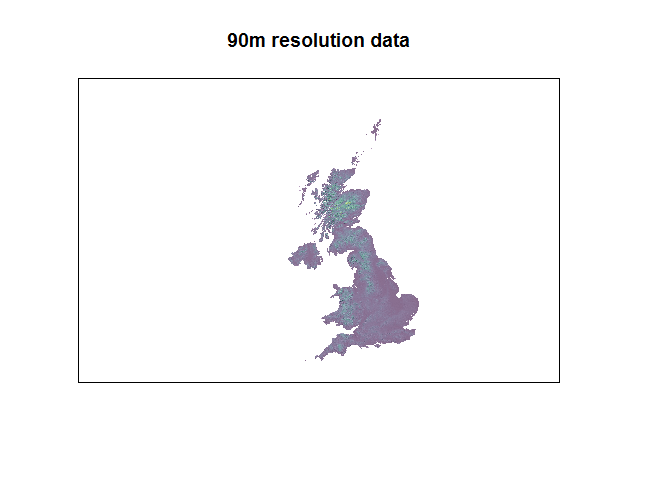
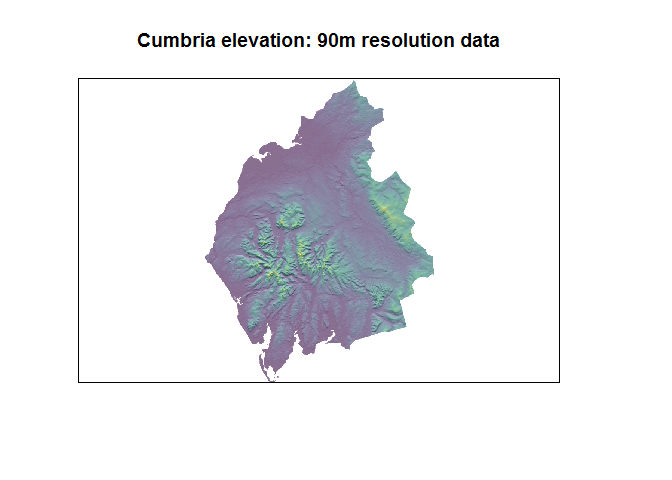
update to only map cumbria so that difference in resolution is more obvious

Changed region(s): [[0.2812, 0.1562, 0.6562, 0.7812], [0.1875, 0.0625, 0.75, 0.125]]

diff --git a/surface_area.md b/surface_area.md
@@ -60,6 +60,13 @@ uk_countries <- getData(name = "GADM",
   st_transform("EPSG:27700") %>% # British National Grid
   select(name = NAME_1)
 
+cumbria <- getData(name = "GADM", 
+                       country = "GBR", 
+                       level = 2) %>% 
+  st_as_sf() %>% 
+  st_transform("EPSG:27700") %>% # British National Grid
+  filter(NAME_2 == "Cumbria")
+
 # dissolved shapefile for whole UK
 uk_shp <- getData(name = "GADM", country = "GBR", level = 0) %>% 
   st_as_sf() %>% 
@@ -103,7 +110,8 @@ plot_rasters <- function(res) {
                       pattern = as.character(res), 
                       full.names = TRUE)
   elev <- raster(fname)
-  elev <- mask(elev, uk_shp)
+  elev <- crop(elev, cumbria)
+  elev <- mask(elev, cumbria)
   slope <- terrain(elev, opt = "slope")
   aspect <- terrain(elev, opt = "aspect")
   hill <- hillShade(slope, aspect)
@@ -111,7 +119,7 @@ plot_rasters <- function(res) {
   plot(hill,
     col=grey(1:100/100),  #create a color ramp of grey colors
     legend=FALSE,
-    main=paste0(res, "m resolution data"),
+    main=paste0("Cumbria elevation: ", res, "m resolution data"),
     axes=FALSE)
 
   # add the DSM on top of the hillshade
@@ -233,7 +241,7 @@ based on planimetric features, rather than taking elevation into
 account.
 
 ``` r
-out <- read_csv("surface_areas.csv") %>% 
+out <- out %>% 
   gather(key, value, -Region, -`Spatial resolution`, -`% change`) %>% 
   mutate(Region = factor(Region, 
                          levels = c("England", 
